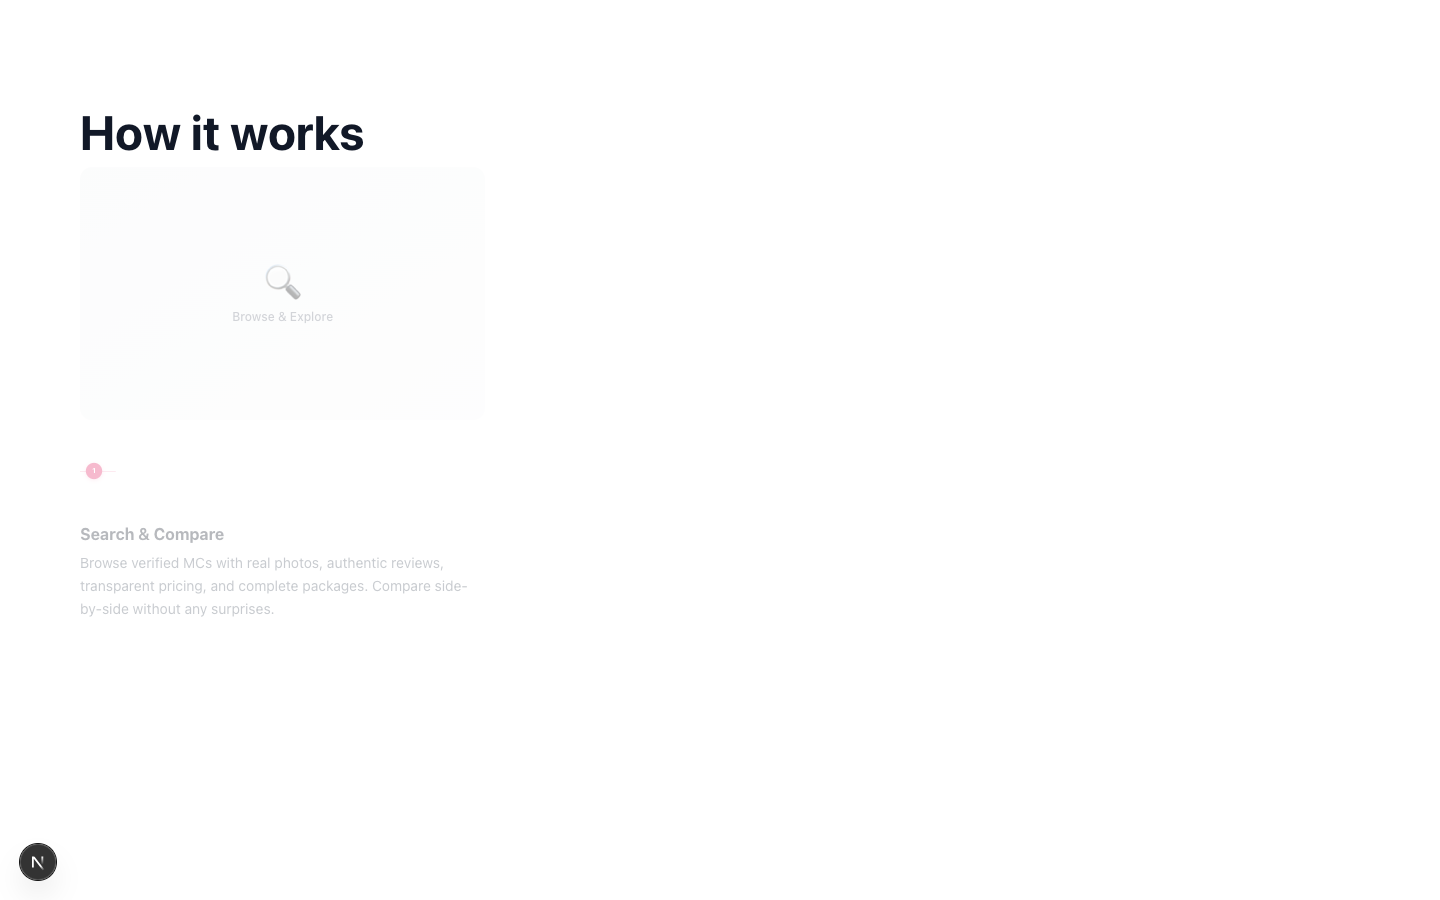
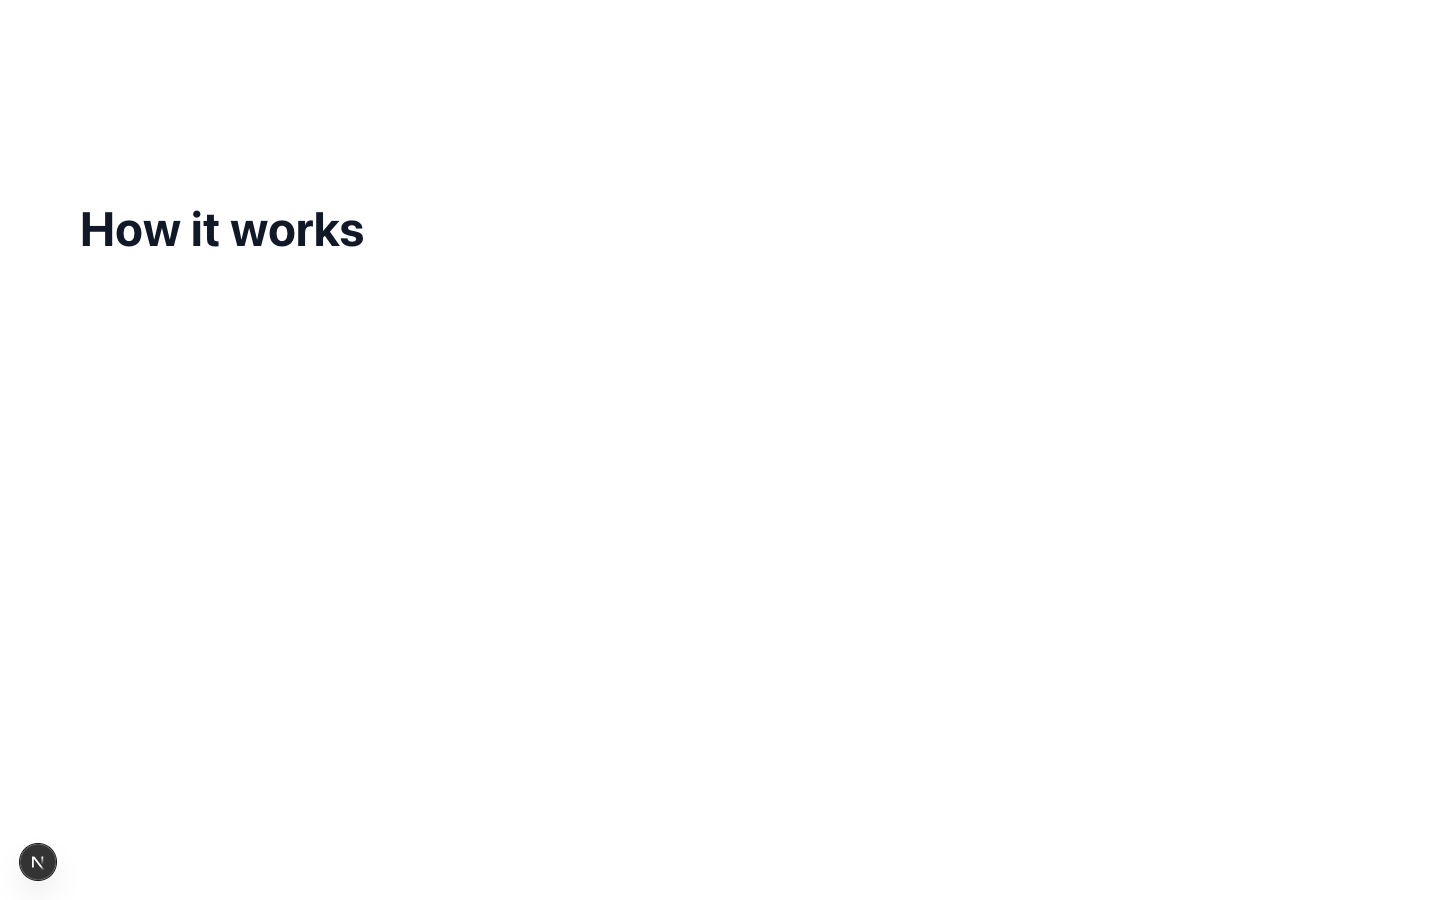
finished styling for how it works container

diff --git a/components/HowItWorks.tsx b/components/HowItWorks.tsx
@@ -28,7 +28,32 @@ const steps = [
 
 export default function HowItWorks() {
   const outerRef = useRef<HTMLDivElement>(null);
+  const desktopGridRef = useRef<HTMLDivElement>(null);
+  const badgeRefs = useRef<(HTMLSpanElement | null)[]>([]);
   const [progress, setProgress] = useState(0);
+  const [lineLayout, setLineLayout] = useState<{
+    top: number;
+    left: number;
+    width: number;
+  } | null>(null);
+
+  const measureLine = useCallback(() => {
+    const grid = desktopGridRef.current;
+    const firstBadge = badgeRefs.current[0];
+    const lastBadge = badgeRefs.current[2];
+    if (!grid || !firstBadge || !lastBadge) return;
+
+    const gridRect = grid.getBoundingClientRect();
+    const firstRect = firstBadge.getBoundingClientRect();
+    const lastRect = lastBadge.getBoundingClientRect();
+
+    // Line starts at center of first badge, ends at right edge of last column
+    const startX = firstRect.left + firstRect.width / 2 - gridRect.left;
+    const endX = gridRect.width;
+    const centerY = firstRect.top + firstRect.height / 2 - gridRect.top;
+
+    setLineLayout({ top: centerY, left: startX, width: endX - startX });
+  }, []);
 
   const handleScroll = useCallback(() => {
     const outer = outerRef.current;
@@ -40,8 +65,6 @@ export default function HowItWorks() {
     if (scrollable <= 0) { setProgress(3); return; }
 
     const scrolled = Math.max(0, -rect.top);
-    // All 3 cards reveal in the first 60% of scroll distance,
-    // remaining 40% holds the final state before unsticking
     const animRange = scrollable * 0.6;
     const ratio = Math.min(1, scrolled / animRange);
     setProgress(ratio * 3);
@@ -49,24 +72,37 @@ export default function HowItWorks() {
 
   useEffect(() => {
     handleScroll();
+    measureLine();
     window.addEventListener("scroll", handleScroll, { passive: true });
     window.addEventListener("resize", handleScroll, { passive: true });
+    window.addEventListener("resize", measureLine);
     return () => {
       window.removeEventListener("scroll", handleScroll);
       window.removeEventListener("resize", handleScroll);
+      window.removeEventListener("resize", measureLine);
     };
-  }, [handleScroll]);
+  }, [handleScroll, measureLine]);
+
+  // Re-measure after first render when refs are populated
+  useEffect(() => {
+    const id = requestAnimationFrame(measureLine);
+    return () => cancelAnimationFrame(id);
+  }, [measureLine]);
 
   const getCP = (i: number) =>
     Math.max(0, Math.min(1, (progress - i * 0.85) / 0.7));
 
-  const lineScale = Math.max(0, Math.min(1, progress / 2.55));
+  // Continuous line progress: 0 at card 1 start, 1 when card 3 is fully revealed
+  const lineProgress = Math.max(0, Math.min(1, progress / 2.55));
+
+  // Mobile vertical line
+  const mobileLineScale = lineProgress;
 
   return (
     <div ref={outerRef} className="relative" style={{ height: "300vh" }}>
-      <div className="sticky top-0 z-10 h-screen overflow-hidden bg-white px-4 sm:px-6 lg:px-8 pt-[12vh]">
+      <div className="sticky top-0 z-10 h-screen overflow-hidden bg-white px-4 sm:px-6 lg:px-8 flex flex-col justify-center">
         <div className="mx-auto max-w-7xl w-full relative z-10">
-          {/* Heading — compact */}
+          {/* Heading */}
           <div className="mb-8">
             <h2 className="text-4xl sm:text-5xl font-bold text-gray-900 font-display">
               How it works
@@ -74,7 +110,30 @@ export default function HowItWorks() {
           </div>
 
           {/* ===== DESKTOP ===== */}
-          <div className="hidden md:grid grid-cols-3 gap-6 lg:gap-8">
+          <div
+            ref={desktopGridRef}
+            className="hidden md:grid grid-cols-3 gap-6 lg:gap-8 relative"
+          >
+            {/* Single continuous line across all badges */}
+            {lineLayout && (
+              <div
+                className="absolute pointer-events-none z-0"
+                style={{
+                  top: lineLayout.top,
+                  left: lineLayout.left,
+                  width: lineLayout.width,
+                  height: "1px",
+                  overflow: "hidden",
+                  transform: "translateY(-0.5px)",
+                }}
+              >
+                <div
+                  className="h-full bg-[#E31C5F]/30 origin-left"
+                  style={{ transform: `scaleX(${lineProgress})` }}
+                />
+              </div>
+            )}
+
             {steps.map((step, i) => {
               const cp = getCP(i);
               const visible = cp > 0;
@@ -100,7 +159,7 @@ export default function HowItWorks() {
                     </div>
                   </div>
 
-                  {/* Badge row with line */}
+                  {/* Badge */}
                   <div
                     className="relative flex items-center mb-4 h-7"
                     style={{
@@ -108,19 +167,8 @@ export default function HowItWorks() {
                       visibility: visible ? "visible" : "hidden",
                     }}
                   >
-                    <div
-                      className="absolute inset-y-0 flex items-center pointer-events-none"
-                      style={{ left: 0, right: i < 2 ? "-1.5rem" : "0" }}
-                    >
-                      <div className="w-full h-px overflow-hidden">
-                        <div
-                          className="h-full bg-[#E31C5F]/30 origin-left"
-                          style={{ transform: `scaleX(${lineScale})` }}
-                        />
-                      </div>
-                    </div>
-
                     <span
+                      ref={(el) => { badgeRefs.current[i] = el; }}
                       className="relative z-10 inline-flex items-center justify-center w-7 h-7 rounded-full bg-[#E31C5F] text-white font-bold text-xs shadow-[0_2px_8px_rgba(227,28,95,0.3)]"
                       style={{ transform: `scale(${0.4 + cp * 0.6})` }}
                     >
@@ -153,7 +201,7 @@ export default function HowItWorks() {
             <div className="absolute left-[13px] top-0 bottom-0 w-px pointer-events-none bg-[#E31C5F]/10 overflow-hidden">
               <div
                 className="bg-[#E31C5F]/30 w-full origin-top"
-                style={{ transform: `scaleY(${lineScale})` }}
+                style={{ transform: `scaleY(${mobileLineScale})` }}
               />
             </div>
 
